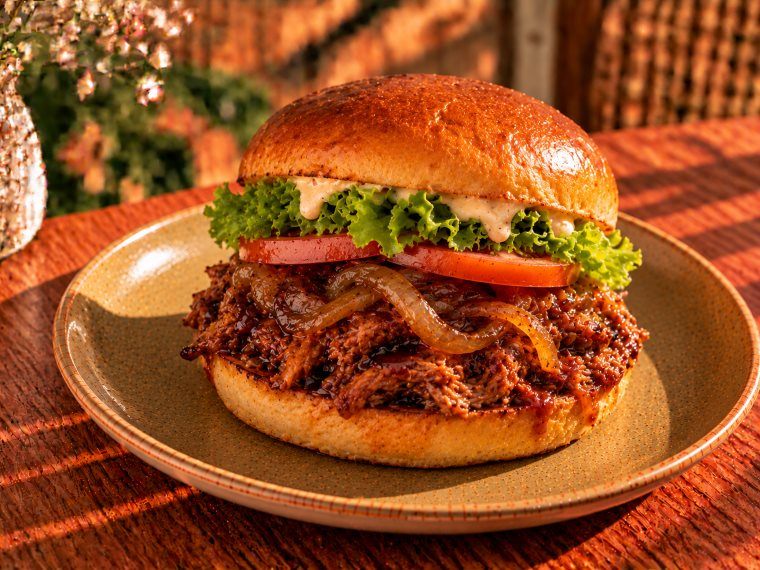
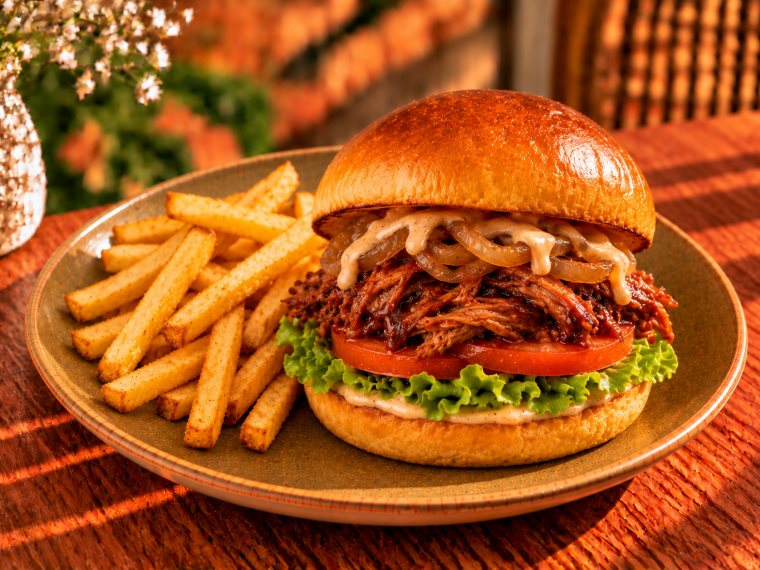
Carta: fotos con IA de los productos del 25-nov
Hamburguesas Conexión, tropical y de costilla (con papas), ensalada
César, mimosa clásica, vino de verano y lulada.

diff --git a/menu/sw.js b/menu/sw.js
@@ -12,7 +12,7 @@
 // El número de CACHE sube con cada diseño nuevo (igual que el ?v= de index.html):
 // al activarse, este archivo borra lo guardado con el número anterior.
 const CACHE = 'carta-v11'; // v11: el colibrí del celular huye al tocarlo, sin granito
-const FOTOS = 'carta-fotos-v6'; // v6: fotos del Drive en su plato según los nombres nuevos (23-nov)
+const FOTOS = 'carta-fotos-v7'; // v7: hamburguesa de costilla con papas (25-nov), mismo nombre de archivo
 const TOPE_FOTOS = 160; // cabe lo que alguien alcanza a mirar en una visita
 
 // Lo mínimo para que la carta abra sola: la página, el estilo, el programa y

diff --git a/menu/assets/img/CREDITOS.md b/menu/assets/img/CREDITOS.md
@@ -1,6 +1,6 @@
 # Créditos de las fotos provisionales
 
-Estas **no son fotos de Café Conexión**. Las de 92 productos son imágenes de
+Estas **no son fotos de Café Conexión**. Las de 99 productos son imágenes de
 referencia hechas con IA, 20 son fotos que mandó Bayron (2026-11-20) y la
 portada es de un banco libre. Se reemplazan todas
 cuando lleguen las fotos reales: ver `LISTA.md`.
@@ -30,12 +30,12 @@ crédito de autor. Se cambian por fotos reales cuando se haga la sesión.
 - **Bebidas frías** (2026-10-21): `americano-frio.jpg`, `latte-frio.jpg`, `capuchino-frio.jpg`, `cold-brew-tradicional.jpg`, `cold-brew-con-sabor.jpg`, `affogato-tradicional.jpg`, `affogato-conexion.jpg`, `frappe-de-cafe.jpg`, `frappe-de-mocha.jpg`, `frappe-con-licor.jpg`, `frappe-conexion.jpg`, `milk-caramel-latte.jpg`, `mocha-frio.jpg`, `malteada.jpg`, `limonada-de-cafe.jpg`.
 - **Smoothies** (2026-10-21): `fresa-y-banano.jpg`, `maracumango.jpg`, `smoothie-pina-colada.jpg`, `smoothie-de-aguacate.jpg`.
 - **Limonadas** (2026-10-21): `limonada-de-coco.jpg`, `limonada-de-cereza.jpg`, `limonada-de-hierbabuena.jpg`, `limonada-de-lychee.jpg`.
-- **Jugos, agua y gaseosas** (2026-10-21): `jugo-natural-en-agua.jpg`, `jugo-natural-en-leche.jpg`, `botella-de-agua.jpg`, `bretana.jpg`, `gaseosa.jpg`.
-- **Cervezas y vino** (2026-10-21): `cerveza-nacional-tradicional.jpg`, `cerveza-nacional-premium.jpg`, `cerveza-importada.jpg`, `sangria-personal.jpg`, `jarra-de-sangria.jpg`, `copa-de-vino-frio.jpg`, `copa-de-vino-caliente.jpg`.
-- **Cócteles** (2026-10-21): `bacardi-cocktail.jpg`, `espresso-martini.jpg`, `margarita-conexion.jpg`, `baileys-pasion.jpg`, `mojito.jpg`.
+- **Jugos, agua y gaseosas** (2026-10-21): `jugo-natural-en-agua.jpg`, `jugo-natural-en-leche.jpg`, `botella-de-agua.jpg`, `bretana.jpg`, `gaseosa.jpg`; `lulada.jpg` (2026-11-25).
+- **Cervezas y vino** (2026-10-21): `cerveza-nacional-tradicional.jpg`, `cerveza-nacional-premium.jpg`, `cerveza-importada.jpg`, `sangria-personal.jpg`, `jarra-de-sangria.jpg`, `copa-de-vino-frio.jpg`, `copa-de-vino-caliente.jpg`; `vino-de-verano.jpg` (2026-11-25).
+- **Cócteles** (2026-10-21): `bacardi-cocktail.jpg`, `espresso-martini.jpg`, `margarita-conexion.jpg`, `baileys-pasion.jpg`, `mojito.jpg`; `mimosa-clasica.jpg` (2026-11-25, la usan la mimosa clásica y la sin licor).
 - **Para compartir** (2026-10-21): `papas.jpg`, `bunuelos.jpg`.
 - **Brunch** (2026-10-21): `huevos-al-gusto.jpg`, `tostada-de-aguacate.jpg`, `bowl-saludable.jpg`, `omelet.jpg`, `tostada-conexion.jpg`, `cacerola-napolitana.jpg`, `waffle-de-pan-de-yuca.jpg`.
-- **Platos fuertes** (2026-10-21): `hamburguesa-de-costilla-de-cerdo.jpg`, `burro-de-pollo.jpg`, `lasana-bolonesa.jpg`, `lasana-de-pollo-con-champinones.jpg`, `sanduche-cubano-de-ropa-vieja.jpg`, `pasta-a-tu-gusto.jpg`.
+- **Platos fuertes** (2026-10-21): `hamburguesa-de-costilla-de-cerdo.jpg`, `burro-de-pollo.jpg`, `lasana-bolonesa.jpg`, `lasana-de-pollo-con-champinones.jpg`, `sanduche-cubano-de-ropa-vieja.jpg`, `pasta-a-tu-gusto.jpg`; `hamburguesa-conexion.jpg`, `hamburguesa-tropical.jpg`, `ensalada-cesar.jpg` y otra vez `hamburguesa-de-costilla-de-cerdo.jpg`, ahora con papas (2026-11-25).
 - **Pizzas** (2026-10-22): `super-pepperoni.jpg`, `margarita-napoles.jpg`, `jamon-ahumado-y-queso.jpg`, `pollo-y-champinon-fresco.jpg`, `tropical-hawaiana.jpg`, `huerta-en-la-terraza.jpg`.
 - **Hojaldrados** (2026-10-22): `pasteles-y-empanadas.jpg`.
 - **Gustos dulces** (2026-10-22): `trufa.jpg`, `postre-mini.jpg`, `postre-personal.jpg`, `waffle-con-helado-y-fresas.jpg`.
